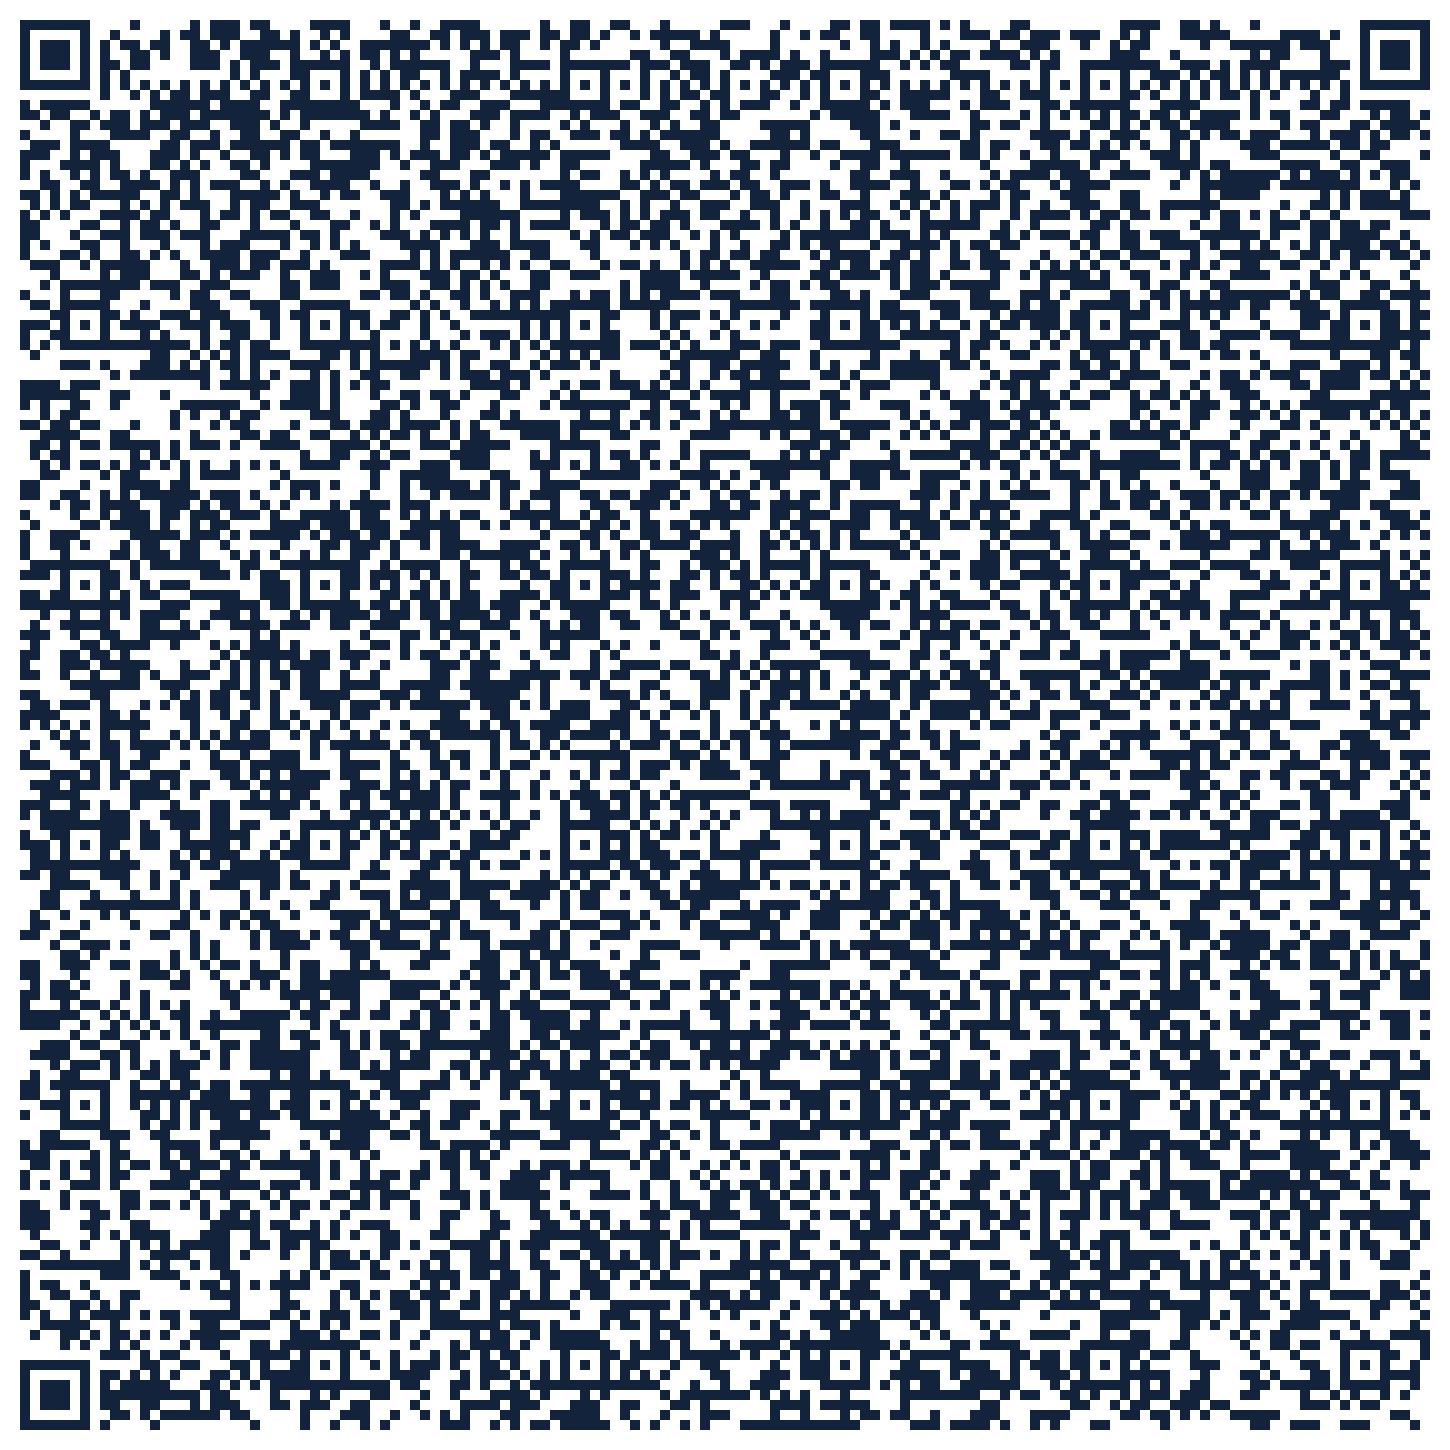
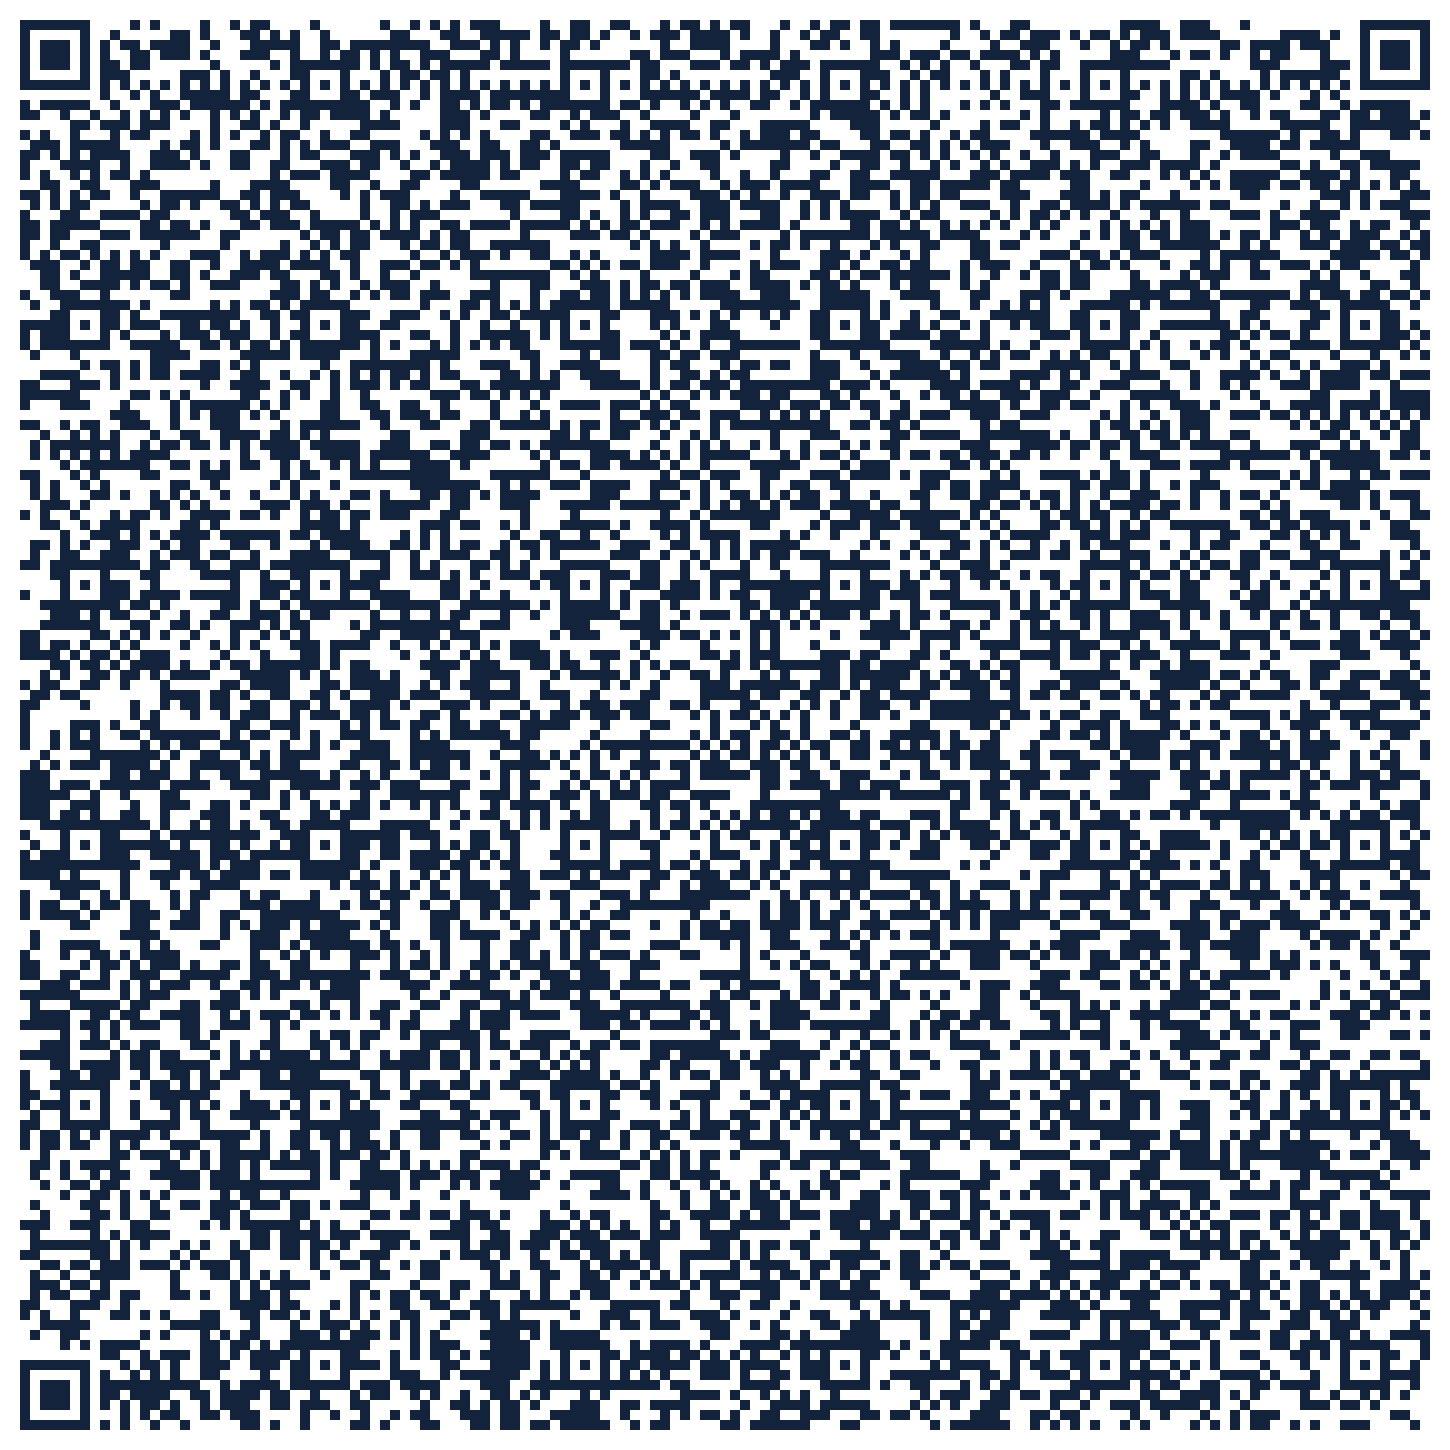
Regenerate complaint QR codes with nautical miles in email body
Add gen_complaint_qr.py so the WebTrak and pre-filled complaint mailto QR
codes are reproducible. Change '9.7 miles' and '8 miles' to nautical miles
for consistency with the rest of the pack.

Claude-Session: https://claude.ai/code/session_01Wg3RMXhKJQE1Gdum3a4bvr

diff --git a/gen_complaint_qr.py b/gen_complaint_qr.py
@@ -1,0 +1,56 @@
+"""Generate the two complaint QR codes and print their embedded URLs.
+
+- qr_webtrak.png : the airport's WebTrak radar replay (find the flight).
+- qr_email.png   : a mailto: link that opens a pre-filled complaint email.
+
+Distances use nautical miles to stay consistent with the rest of the pack.
+Run from the repo root:  python3 gen_complaint_qr.py
+"""
+import urllib.parse
+import qrcode
+
+
+def qr(data, path):
+    q = qrcode.QRCode(error_correction=qrcode.constants.ERROR_CORRECT_M, box_size=10, border=2)
+    q.add_data(data)
+    q.make(fit=True)
+    img = q.make_image(fill_color="#12233b", back_color="white")
+    img.save(path)
+    print("wrote", path)
+
+
+# 1) WebTrak
+WEBTRAK = "https://webtrak.emsbk.com/boh"
+qr(WEBTRAK, "outputs/complain/qr_webtrak.png")
+
+# 2) Pre-filled complaint email (mailto)
+subject = "Aircraft noise complaint - Brockenhurst"
+body = (
+    "Dear Bournemouth Airport Environment Team,\n\n"
+    "I wish to make a formal complaint about aircraft noise over Brockenhurst.\n\n"
+    "Date: \n"
+    "Approximate time: \n"
+    "My location (road/postcode): \n"
+    "What I experienced (e.g. very low, loud, woke me): \n\n"
+    "Brockenhurst sits about 9.7 nautical miles from the runway, directly under the arrivals path "
+    "and inside the New Forest National Park. Arrivals over the village are frequently lower than a "
+    "continuous 3-degree descent (about 3,100 ft here) and often level off overhead, which is when "
+    "the engine noise is worst. At night your own rule is that aircraft should not be below 2,500 ft "
+    "until within 8 nautical miles.\n\n"
+    "Please investigate this flight against your published noise-abatement procedures (UK AIP EGHH "
+    "AD 2.21) and your Section 106 continuous-descent obligation, and confirm the aircraft, its "
+    "height over Brockenhurst, and whether it flew a continuous descent. Please log this as a formal "
+    "noise complaint and send me your response.\n\n"
+    "Name: \n"
+    "Address: \n"
+)
+mailto = (
+    "mailto:environment@bournemouthairport.com?subject="
+    + urllib.parse.quote(subject)
+    + "&body="
+    + urllib.parse.quote(body)
+)
+qr(mailto, "outputs/complain/qr_email.png")
+print("mailto length:", len(mailto))
+print()
+print(mailto)
